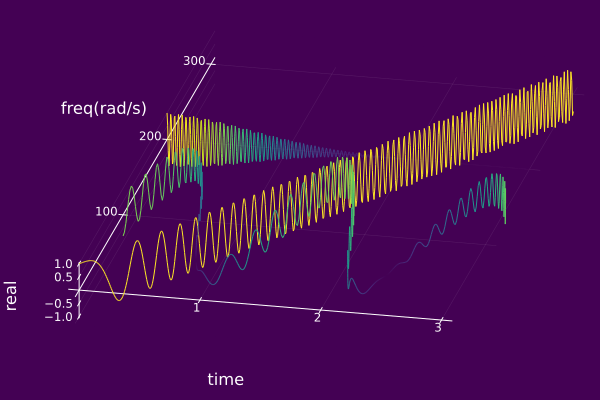
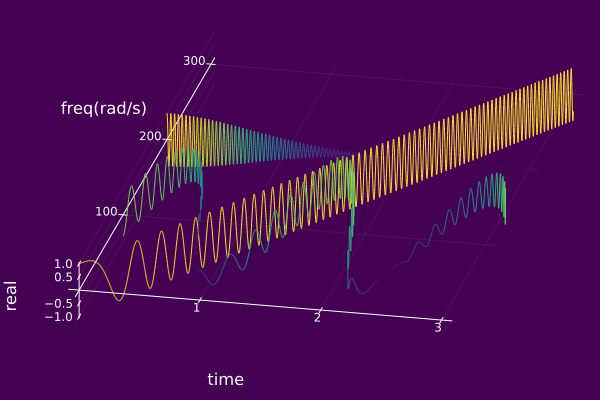
docs

diff --git a/docs/src/basics/spectra.md b/docs/src/basics/spectra.md
@@ -20,7 +20,7 @@ using ISA, Plots
 𝐶₁ = AMFMtriplet(t->1.0,t->100*t,0.1)
 𝐶₂ = AMFMtriplet(t->0.8*cos(2t),t->100 + 70.5*sin(5t),π)
 𝑆 = compSet([𝐶₀,𝐶₁,𝐶₂])
-plot(𝑆; timeaxis=0.0:0.005:3.0)
+plot(𝑆; timeaxis=0.0:0.001:3.0)
 ```
 ![](https://raw.githubusercontent.com/NMSU-ISA/ISA/master/docs/src/assets/IS_ex1.png)
 
@@ -31,6 +31,6 @@ using ISA, Plots
 𝐶₁ = AMFMtriplet(t->1.0,t->100*t,0.1)
 𝐶₂ = AMFMtriplet(t->0.8*cos(2t),t->100 + 70.5*sin(5t),π)
 𝑆 = compSet([𝐶₀,𝐶₁,𝐶₂])
-plot(𝑆; timeaxis=0.0:0.005:3.0, camera=(0,90), zlabel="", zticks=:false,  left_margin=15Plots.mm, margin=5Plots.mm, yrotation = 90)
+plot(𝑆; timeaxis=0.0:0.001:3.0, camera=(0,90), zlabel="", zticks=:false,  left_margin=15Plots.mm, margin=5Plots.mm, yrotation = 90)
 ```
 ![](https://raw.githubusercontent.com/NMSU-ISA/ISA/master/docs/src/assets/IS_ex2.png)
